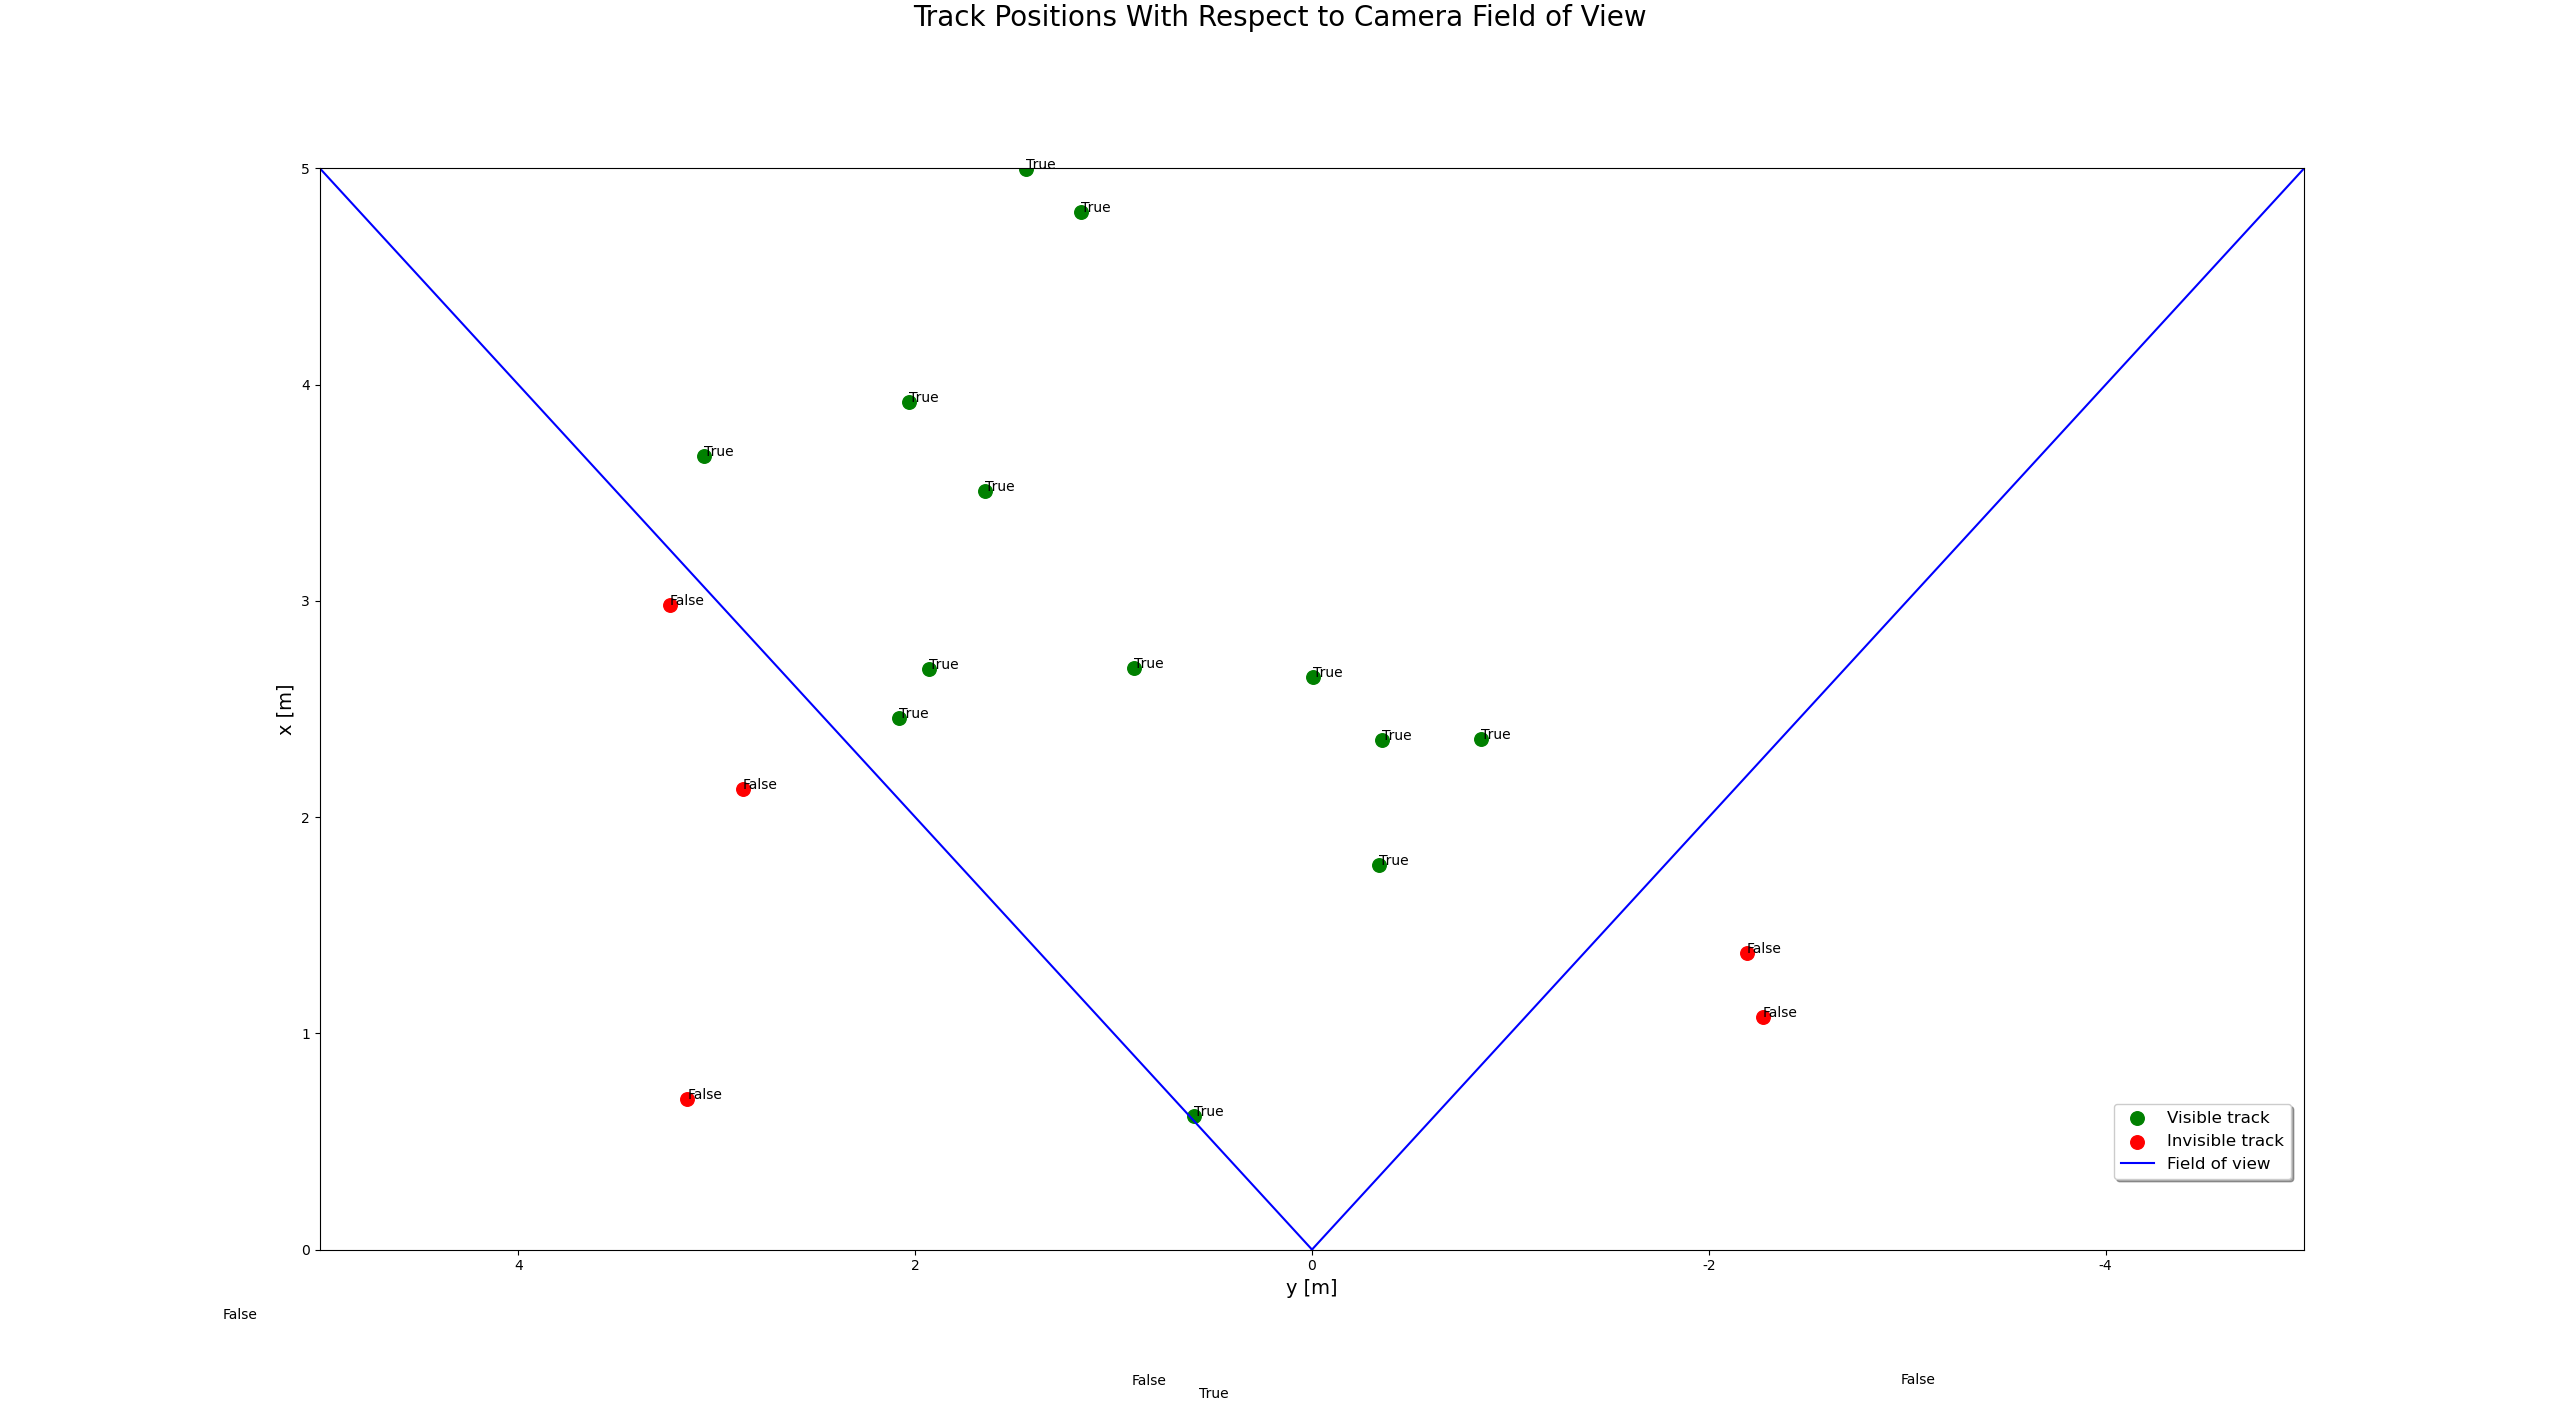
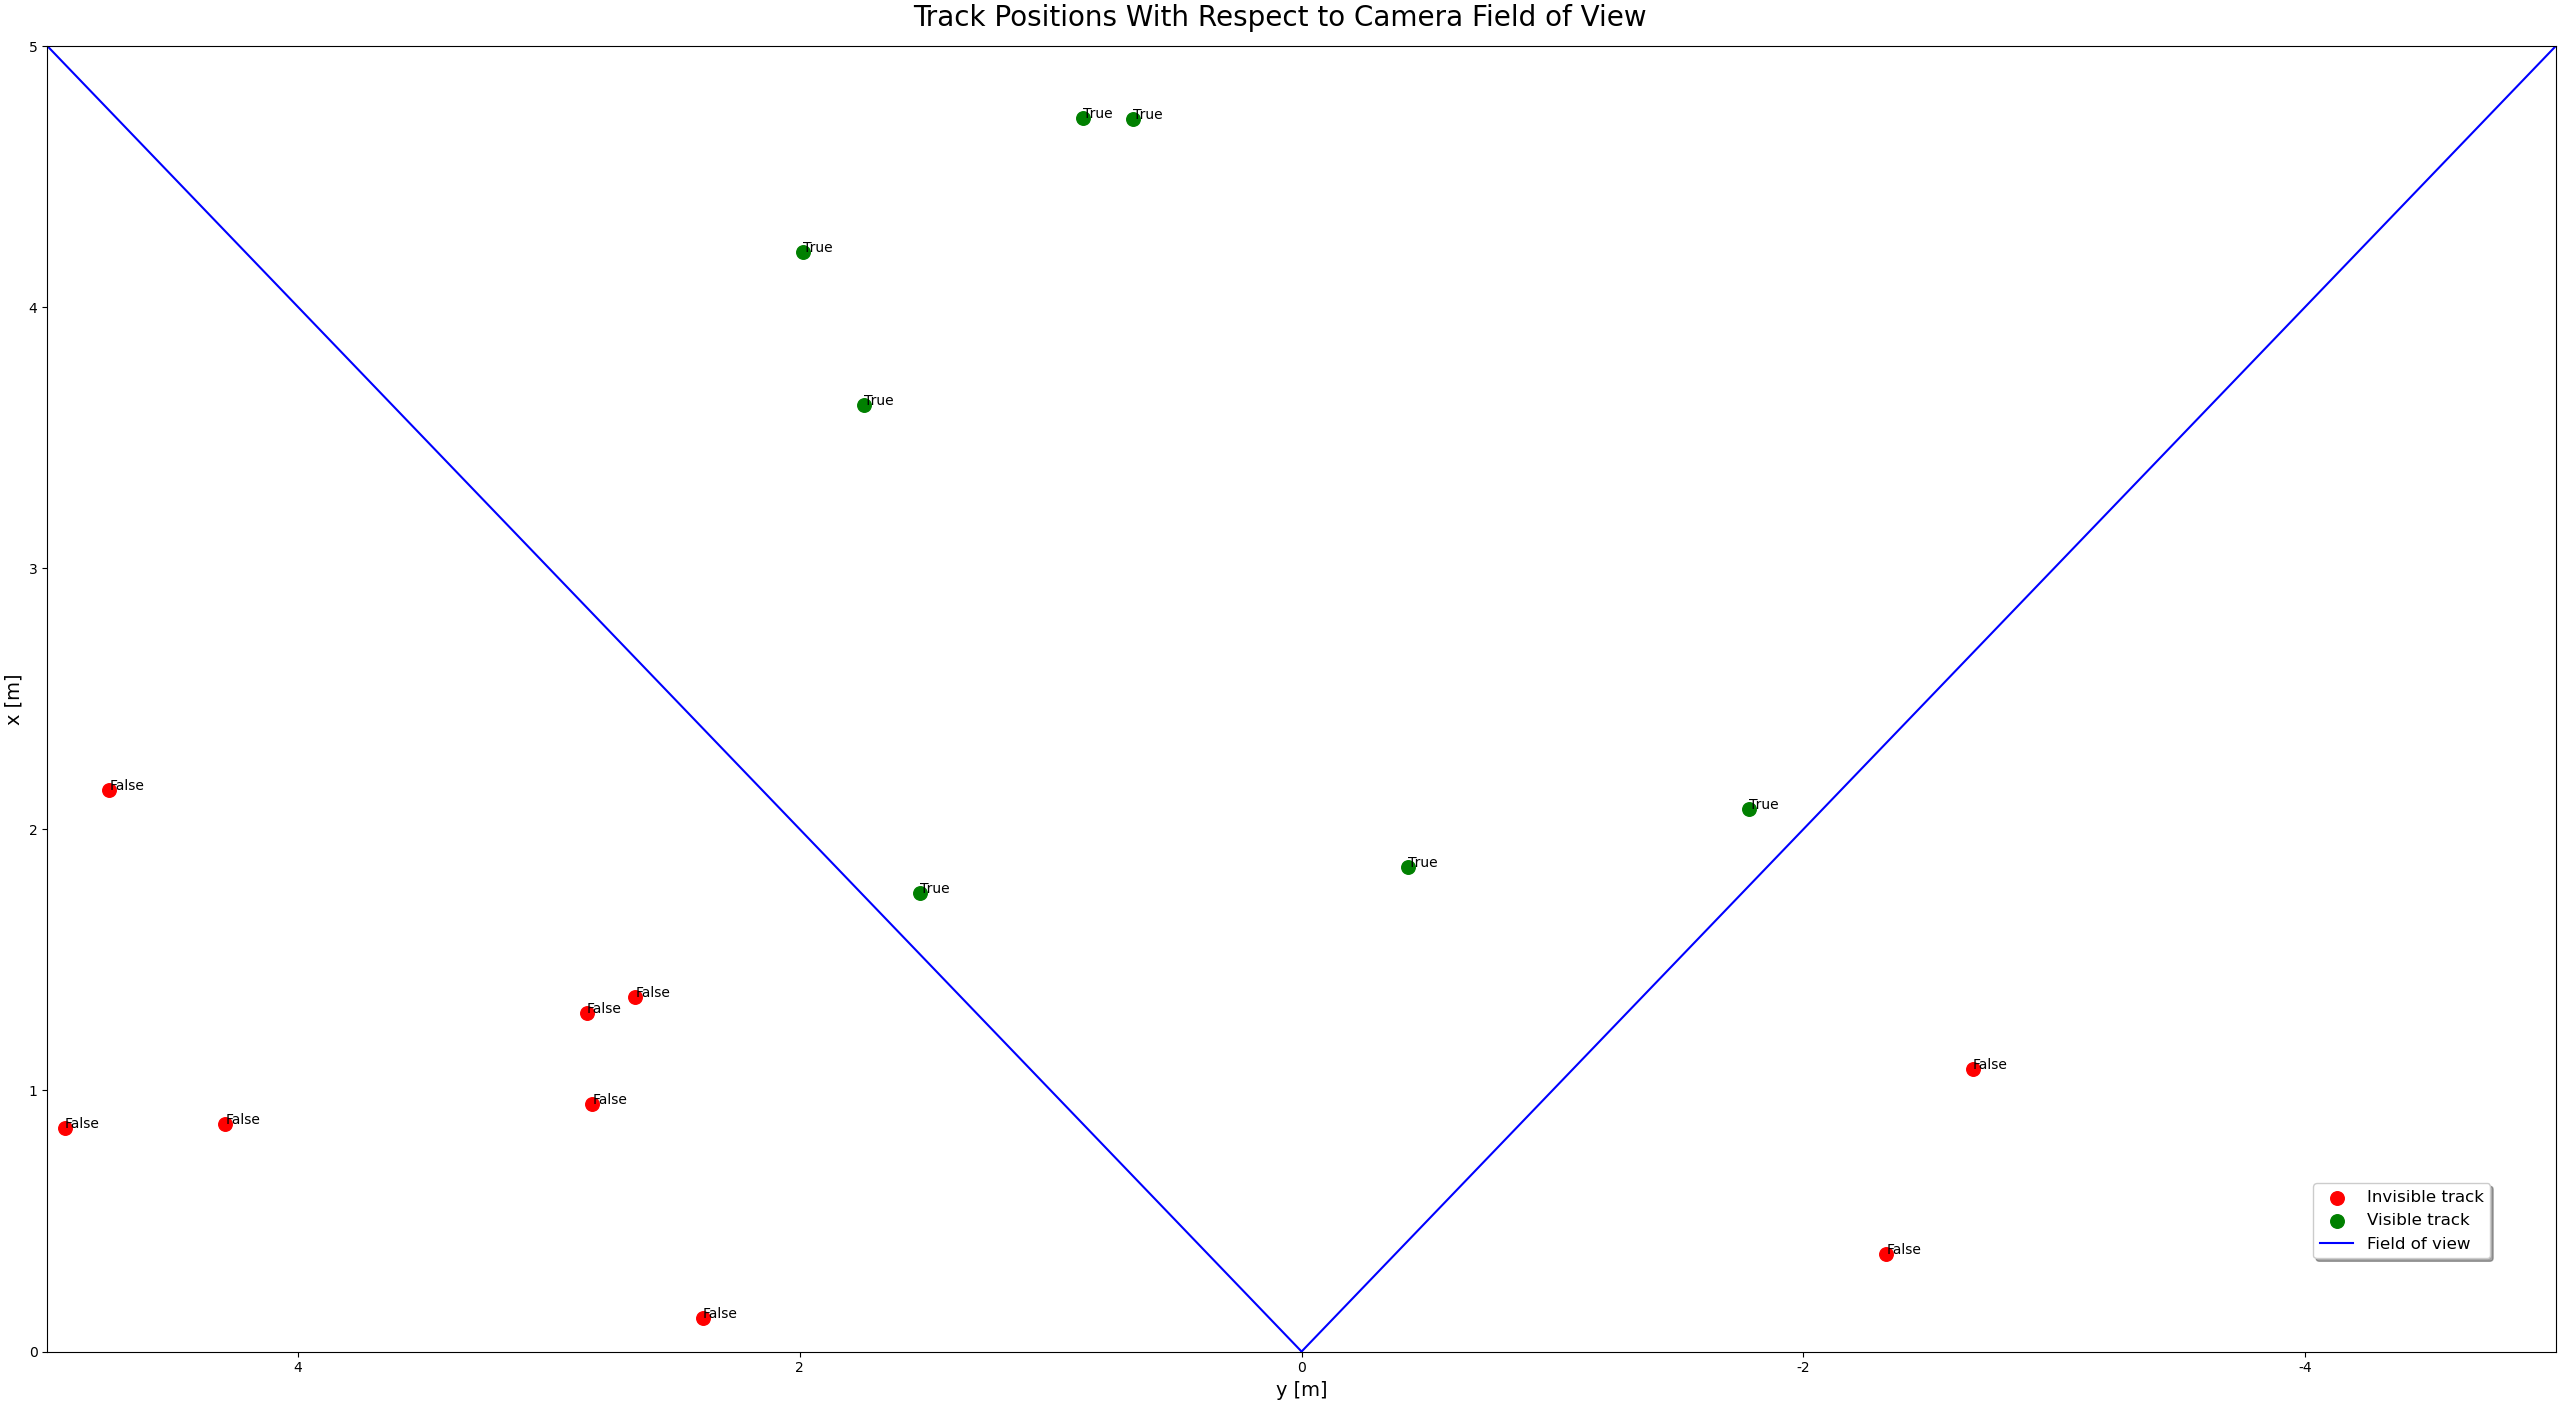
:bug: Fixing bugs — Clipping data outside plot limits

diff --git a/2-Sensor-Fusion/Exercises/2-4-Multi-Target-Tracking/exercises/2_fov.py b/2-Sensor-Fusion/Exercises/2-4-Multi-Target-Tracking/exercises/2_fov.py
@@ -170,7 +170,13 @@ def run():
             ax.scatter(float(-pos_sens[1]), float(pos_sens[0]),
                             marker='o', s=95, color=col, label='Invisible track'
             )
-        ax.text(float(-pos_sens[1]), float(pos_sens[0]), str(result))  
+            # Plot the track `in_fov` result
+        ax.text(
+                x=float(-pos_sens[1]),
+                y=float(pos_sens[0]),
+                s=str(result),
+                clip_on=True    # Here we clip any values outside the plot limit
+        ) 
     ### Plot the field of view of the camera sensor
     ax.plot([0, -5], [0, 5], color='blue', label='Field of view') 
     ax.plot([0, 5], [0, 5], color='blue')

diff --git a/2-Sensor-Fusion/Exercises/2-4-Multi-Target-Tracking/exercises/4_gating.py b/2-Sensor-Fusion/Exercises/2-4-Multi-Target-Tracking/exercises/4_gating.py
@@ -348,9 +348,11 @@ def run():
         # Set the distance label
         str_dist = "{:.2f}".format(dist)
         ax.text(
-            float((-track.x[1] - meas.z[1]) + 0.05 / 2),
-            float((track.x[0] + meas.z[0]) + 0.05 / 2),
-            str_dist, fontsize=14
+            x=float((-track.x[1] - meas.z[1]) + 0.05 / 2),
+            y=float((track.x[0] + meas.z[0]) + 0.05 / 2),
+            s=str_dist,
+            fontsize=14,
+            clip_on=True    # Here we clip any values outside the plot limit
         )
         f1 = f"Found association between track {ind_track + 1} "
         f1 += f"and measurement {ind_meas + 1} " 
